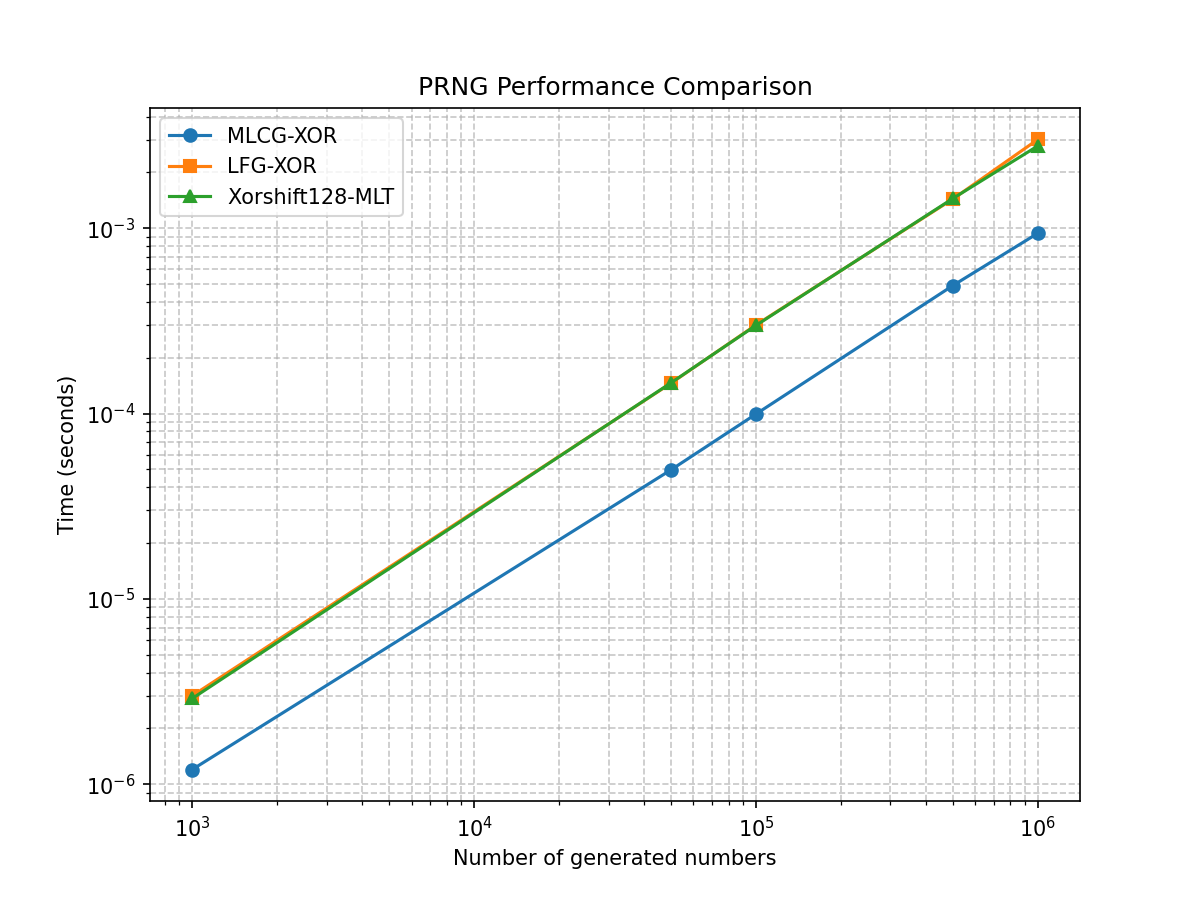
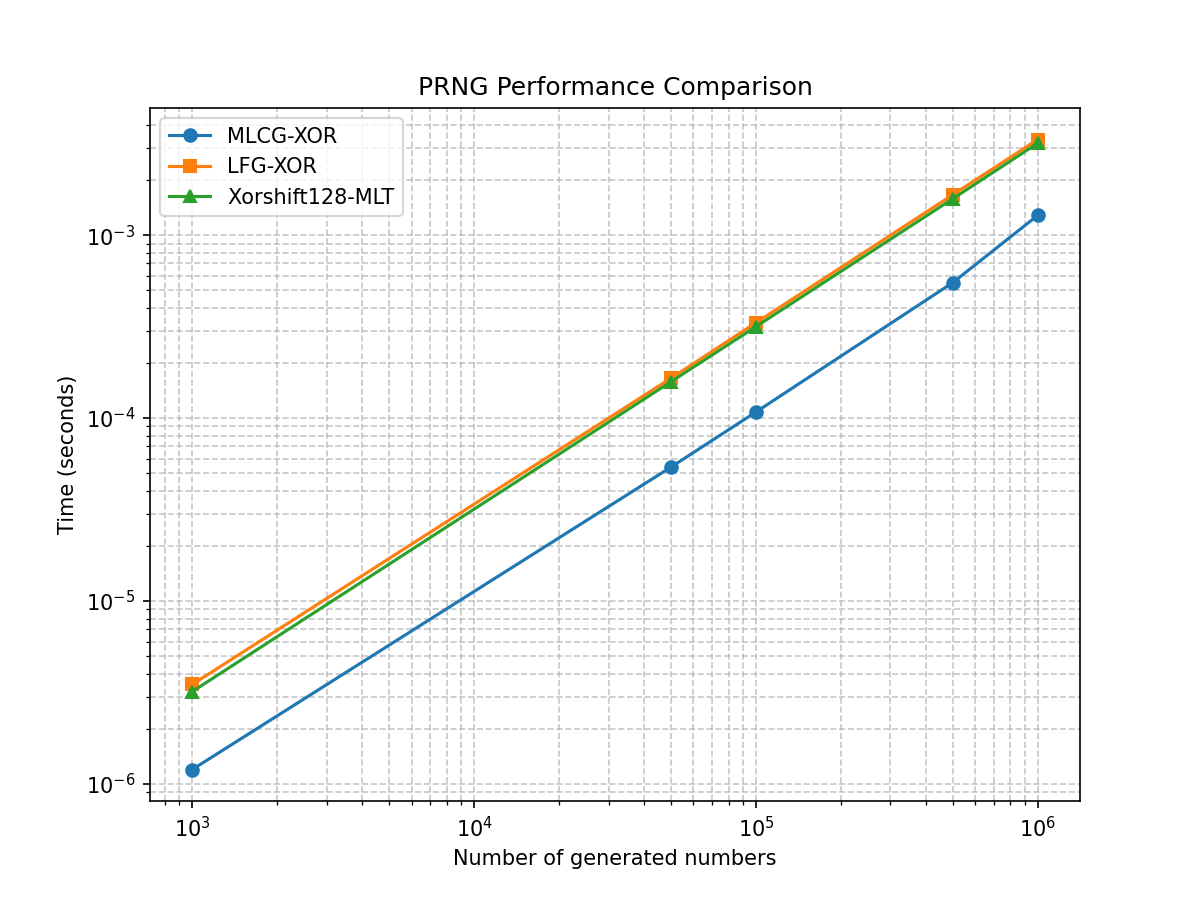
happy

diff --git a/rng_generators.cpp b/rng_generators.cpp
@@ -51,16 +51,6 @@ uint64_t MLCG_XOR::next() {
     return x;
 }
 
-/**
- * @brief Генерирует число с плавающей точкой в диапазоне [0, 1).
- * @return число типа double, равномерно распределённое в [0, 1).
- */
-double MLCG_XOR::nextDouble() {
-    // Делим 64-битное целое на 2^64, чтобы получить интервал [0, 1).
-    // max() возвращает ~0ULL, т.е. 2^64-1, поэтому max()+1 = 2^64.
-    return next() / (max() + 1.0);
-}
-
 // 2. LFG‑XOR: генератор Фибоначчи с запаздыванием и XOR
 // Принцип: LFG использует рекуррентную формулу
 //          X[n] = X[n-p] XOR X[n-q] (p=55, q=24). Такой выбор лагов даёт
@@ -146,13 +136,6 @@ uint32_t LFG_XOR::next() {
     return buffer[index++];
 }
 
-/**
- * @brief Генерирует число с плавающей точкой в диапазоне [0, 1).
- */
-double LFG_XOR::nextDouble() {
-    return next() / (max() + 1.0);
-}
-
 // 3. Xorshift128_MLT: модифицированный Xorshift с нелинейным умножением
 // Принцип: Xorshift128 использует 128 бит состояния (два 64-битных слова)
 //          и операции XOR и сдвигов. Период 2^128-1, очень высокая скорость.
@@ -215,11 +198,4 @@ uint64_t Xorshift128_MLT::next() {
     result *= 0x94d049bb133111ebULL;
     result ^= (result >> 27);
     return result;
-}
-
-/**
- * @brief Генерирует число с плавающей точкой в диапазоне [0, 1).
- */
-double Xorshift128_MLT::nextDouble() {
-    return next() / (max() + 1.0);
 }

diff --git a/rng_generators.hpp b/rng_generators.hpp
@@ -33,9 +33,6 @@ public:
     /** @brief Генерирует 64-битное псевдослучайное число. */
     uint64_t next();
 
-    /** @brief Генерирует число с плавающей точкой в диапазоне [0, 1). */
-    double nextDouble();
-
     /** @brief Минимальное значение, возвращаемое next(). */
     static constexpr uint64_t min() { return 0; }
 
@@ -67,9 +64,6 @@ public:
 
     /** @brief Генерирует 32-битное псевдослучайное число. */
     uint32_t next();
-
-    /** @brief Генерирует число с плавающей точкой в диапазоне [0, 1). */
-    double nextDouble();
 
     /** @brief Минимальное значение, возвращаемое next(). */
     static constexpr uint32_t min() { return 0; }
@@ -109,9 +103,6 @@ public:
 
     /** @brief Генерирует 64-битное псевдослучайное число. */
     uint64_t next();
-
-    /** @brief Генерирует число с плавающей точкой в диапазоне [0, 1). */
-    double nextDouble();
 
     /** @brief Минимальное значение, возвращаемое next(). */
     static constexpr uint64_t min() { return 0; }